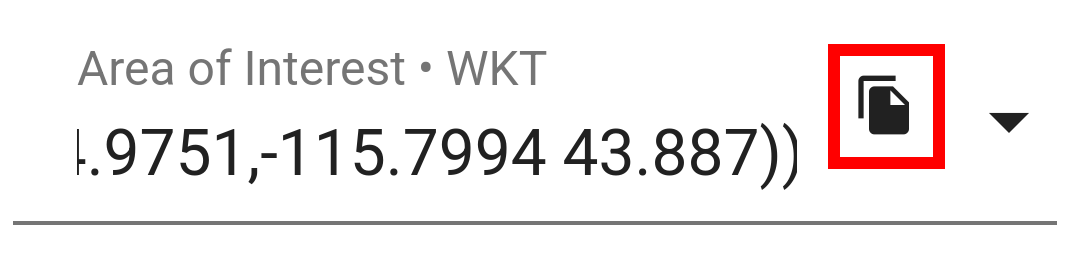
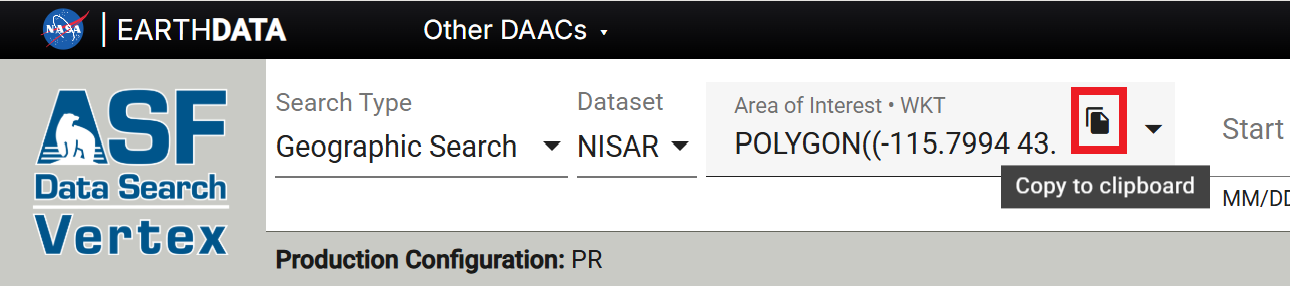
use image with more context

diff --git a/accessing-nisar/gdal.md b/accessing-nisar/gdal.md
@@ -162,7 +162,7 @@ An easy method for defining a WKT spatial extent string is to set an Area of Int
 :alt: A screenshot describing the location of the copy AOI string button in Vertex.
 :align: center
 
-Click the copy AOI string button to copy the WKT spatial extent string representing the AOI selection in Vertex to your system's clipboard.
+Click the **Copy to clipboard** icon in the Area of Interest WKT field in Vertex to copy the WKT spatial extent string to your system's clipboard.
 ```
 
 :::{tip}
